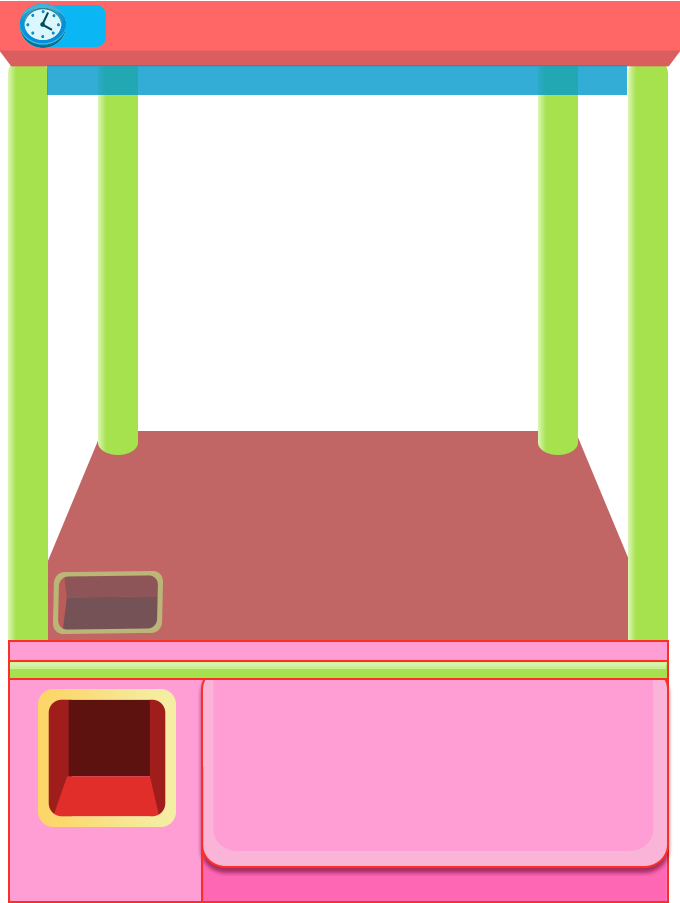
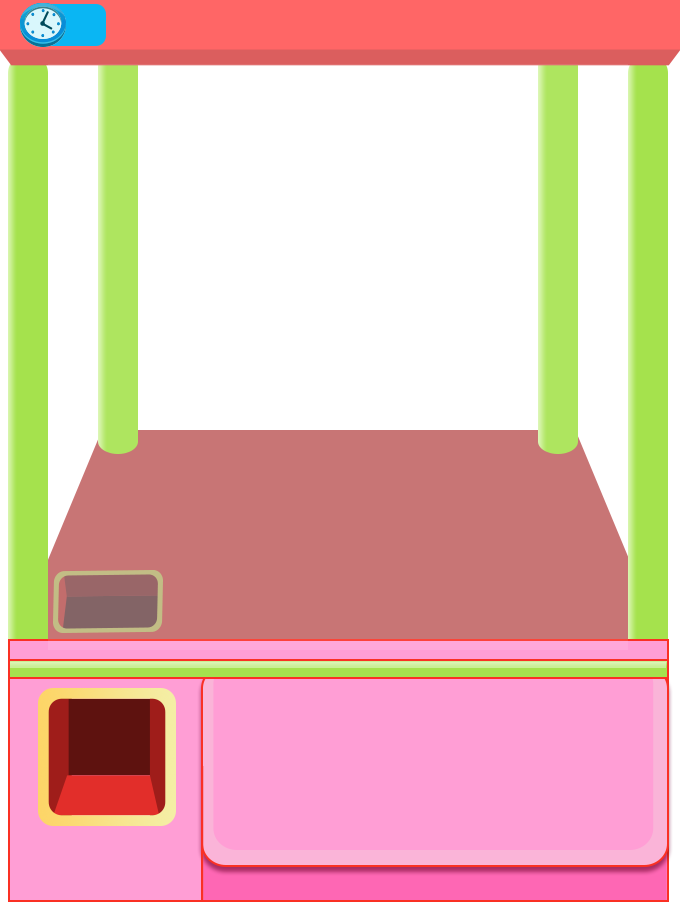
test

diff --git a/css/index.css b/css/index.css
@@ -91,7 +91,7 @@ input,select {
 	position: absolute;
 	width: 1.76rem;
 	height: .73rem;
-	top: 6.28rem;
+	top: 6.27rem;
 	left: 0;
 	background: url(../images/body-mask@2x.png) 0 0 no-repeat;
 	-webkit-background-size: contain;
@@ -204,6 +204,121 @@ input,select {
 	top: .3rem;
 	right: .04rem;
 	color: #fff;
+}
+{
+	position: absolute;
+	border: 1px solid #000;
+}
+.machine .glass-mask,.machine .glass-sec {
+	position: absolute;
+	width: 5.79rem;
+	height: 5.74rem;
+	top: .65rem;
+	left: .48rem;
+	overflow: hidden;
+}
+.machine .glass-mask>div:first-child {
+	height: .3rem;
+	background-color: rgb( 0, 153, 204 );
+	opacity: 0.8;
+}
+.machine .glass-mask>div:last-child {
+	height: 5.44rem;
+	background-color: rgb( 255, 255, 255 );
+	opacity: 0.102;
+}
+
+.machine .glass-sec {
+	/*z-index: 2;*/
+}
+.machine .hook {
+	position: absolute;
+	bottom: .8rem;
+	left: 2.4rem;
+}
+.machine .hook-iron {
+	width: .14rem;
+	height: 4.8rem;
+	background: url(../images/Irons@2x.png) 0 0 repeat-y;
+	-webkit-background-size: contain;
+	background-size: contain;
+	margin: 0 auto;
+}
+.machine .hook-join {
+	width: 1.3rem;
+	height: .7rem;
+	background: url(../images/claw01@2x.png) 0 0;
+	-webkit-background-size: contain;
+	background-size: contain;
+	position: relative;
+	top: -0.2rem;
+	-webkit-transform-origin: 50% .2rem;
+	transform-origin: 50% .2rem;
+/*	-webkit-transform: rotate(10deg);
+	transform: rotate(10deg);*/
+}
+.machine .hook-sub-left,.machine .hook-sub-right {
+	width: .62rem;
+	height: .82rem;
+	position: absolute;
+}
+.machine .hook-sub-left {
+	background: url(../images/Lclaw01@2x.png) 0 0;
+	-webkit-background-size: contain;
+	background-size: contain;
+	top:.6rem;
+	left: -0.01rem;
+	-webkit-transform: rotate(20deg);
+	transform: rotate(20deg);
+	-webkit-transform-origin: 0.07rem 0.07rem;
+	transform-origin: 0.07rem 0.07rem;
+}
+
+.machine .hook-sub-right {
+	background: url(../images/Rclaw01@2x.png) 0 0;
+	-webkit-background-size: contain;
+	background-size: contain;
+	top:.6rem;
+	right: -0.01rem;
+	-webkit-transform: rotate(-20deg);
+	transform: rotate(-20deg);
+	-webkit-transform-origin: 0.55rem 0.07rem;
+	transform-origin: 0.55rem 0.07rem;
+}
+.machine .doll-catch {
+	background: url(../images/Rabbit-03@2x.png) 0 0;
+	-webkit-background-size: contain;
+	background-size: contain;
+	width: 1.3rem;
+	height: 1.96rem;
+	position: absolute;
+	bottom: -1rem;
+	left: -.1rem;
+	transform: rotate(-20deg);
+}
+
+/*.machine .doll-1 {
+	background: url(../images/Rabbit-03@2x.png) 0 0;
+	-webkit-background-size: contain;
+	background-size: contain;
+	width: 1.3rem;
+	height: 1.96rem;
+	position: absolute;
+	bottom: .01rem;
+	left: 2.4rem;
+}
+.machine .dolls {
+	position: absolute;
+	width: 5.79rem;
+	height: 5.74rem;
+	top: .65rem;
+	left: .48rem;
+}*/
+
+
+
+.tips,.start-game {
+	/*display: none;*/
 }
 .tips {
 	background: url(../images/TIPS@2x.png) 0 0 no-repeat;
@@ -453,6 +568,6 @@ input,select {
 	display: none;
 }
 
-.pay-page {
+/*.pay-page {
 	display: block;
-}
+}*/

diff --git a/index.html b/index.html
@@ -33,14 +33,24 @@
 					</div>
 					<div class="glass-sec">
 						<div class="hook">
-							<div class="hook-1"></div>
-							<div class="hook-2">
-								<div class="hook-sub-1"></div>
-								<div class="hook-sub-2"></div>
+							<div class="hook-iron"></div>
+							<div class="hook-join">
+								<div class="doll-catch"></div>
+								<div class="hook-sub-left"></div>
+								<div class="hook-sub-right"></div>
+
 							</div>
 						</div>
-						<div class="glass-mask"></div>
+
 					</div>
+
+					<div class="dolls">
+						<div class="doll-1"></div>
+					</div>
+<!-- 					<div class="glass-mask">
+						<div></div>
+						<div></div>
+					</div> -->
 					<div class="control-sec">
 						<div class="btn-up ctrl-btn"></div>
 						<div class="btn-down ctrl-btn"></div>
@@ -109,5 +119,7 @@
 
 			<div class="free"></div>
 		</div>
+		<script src="lib/zepto.js"></script>
+		<script src="js/index.js"></script>
 	</body>
 	</html>
